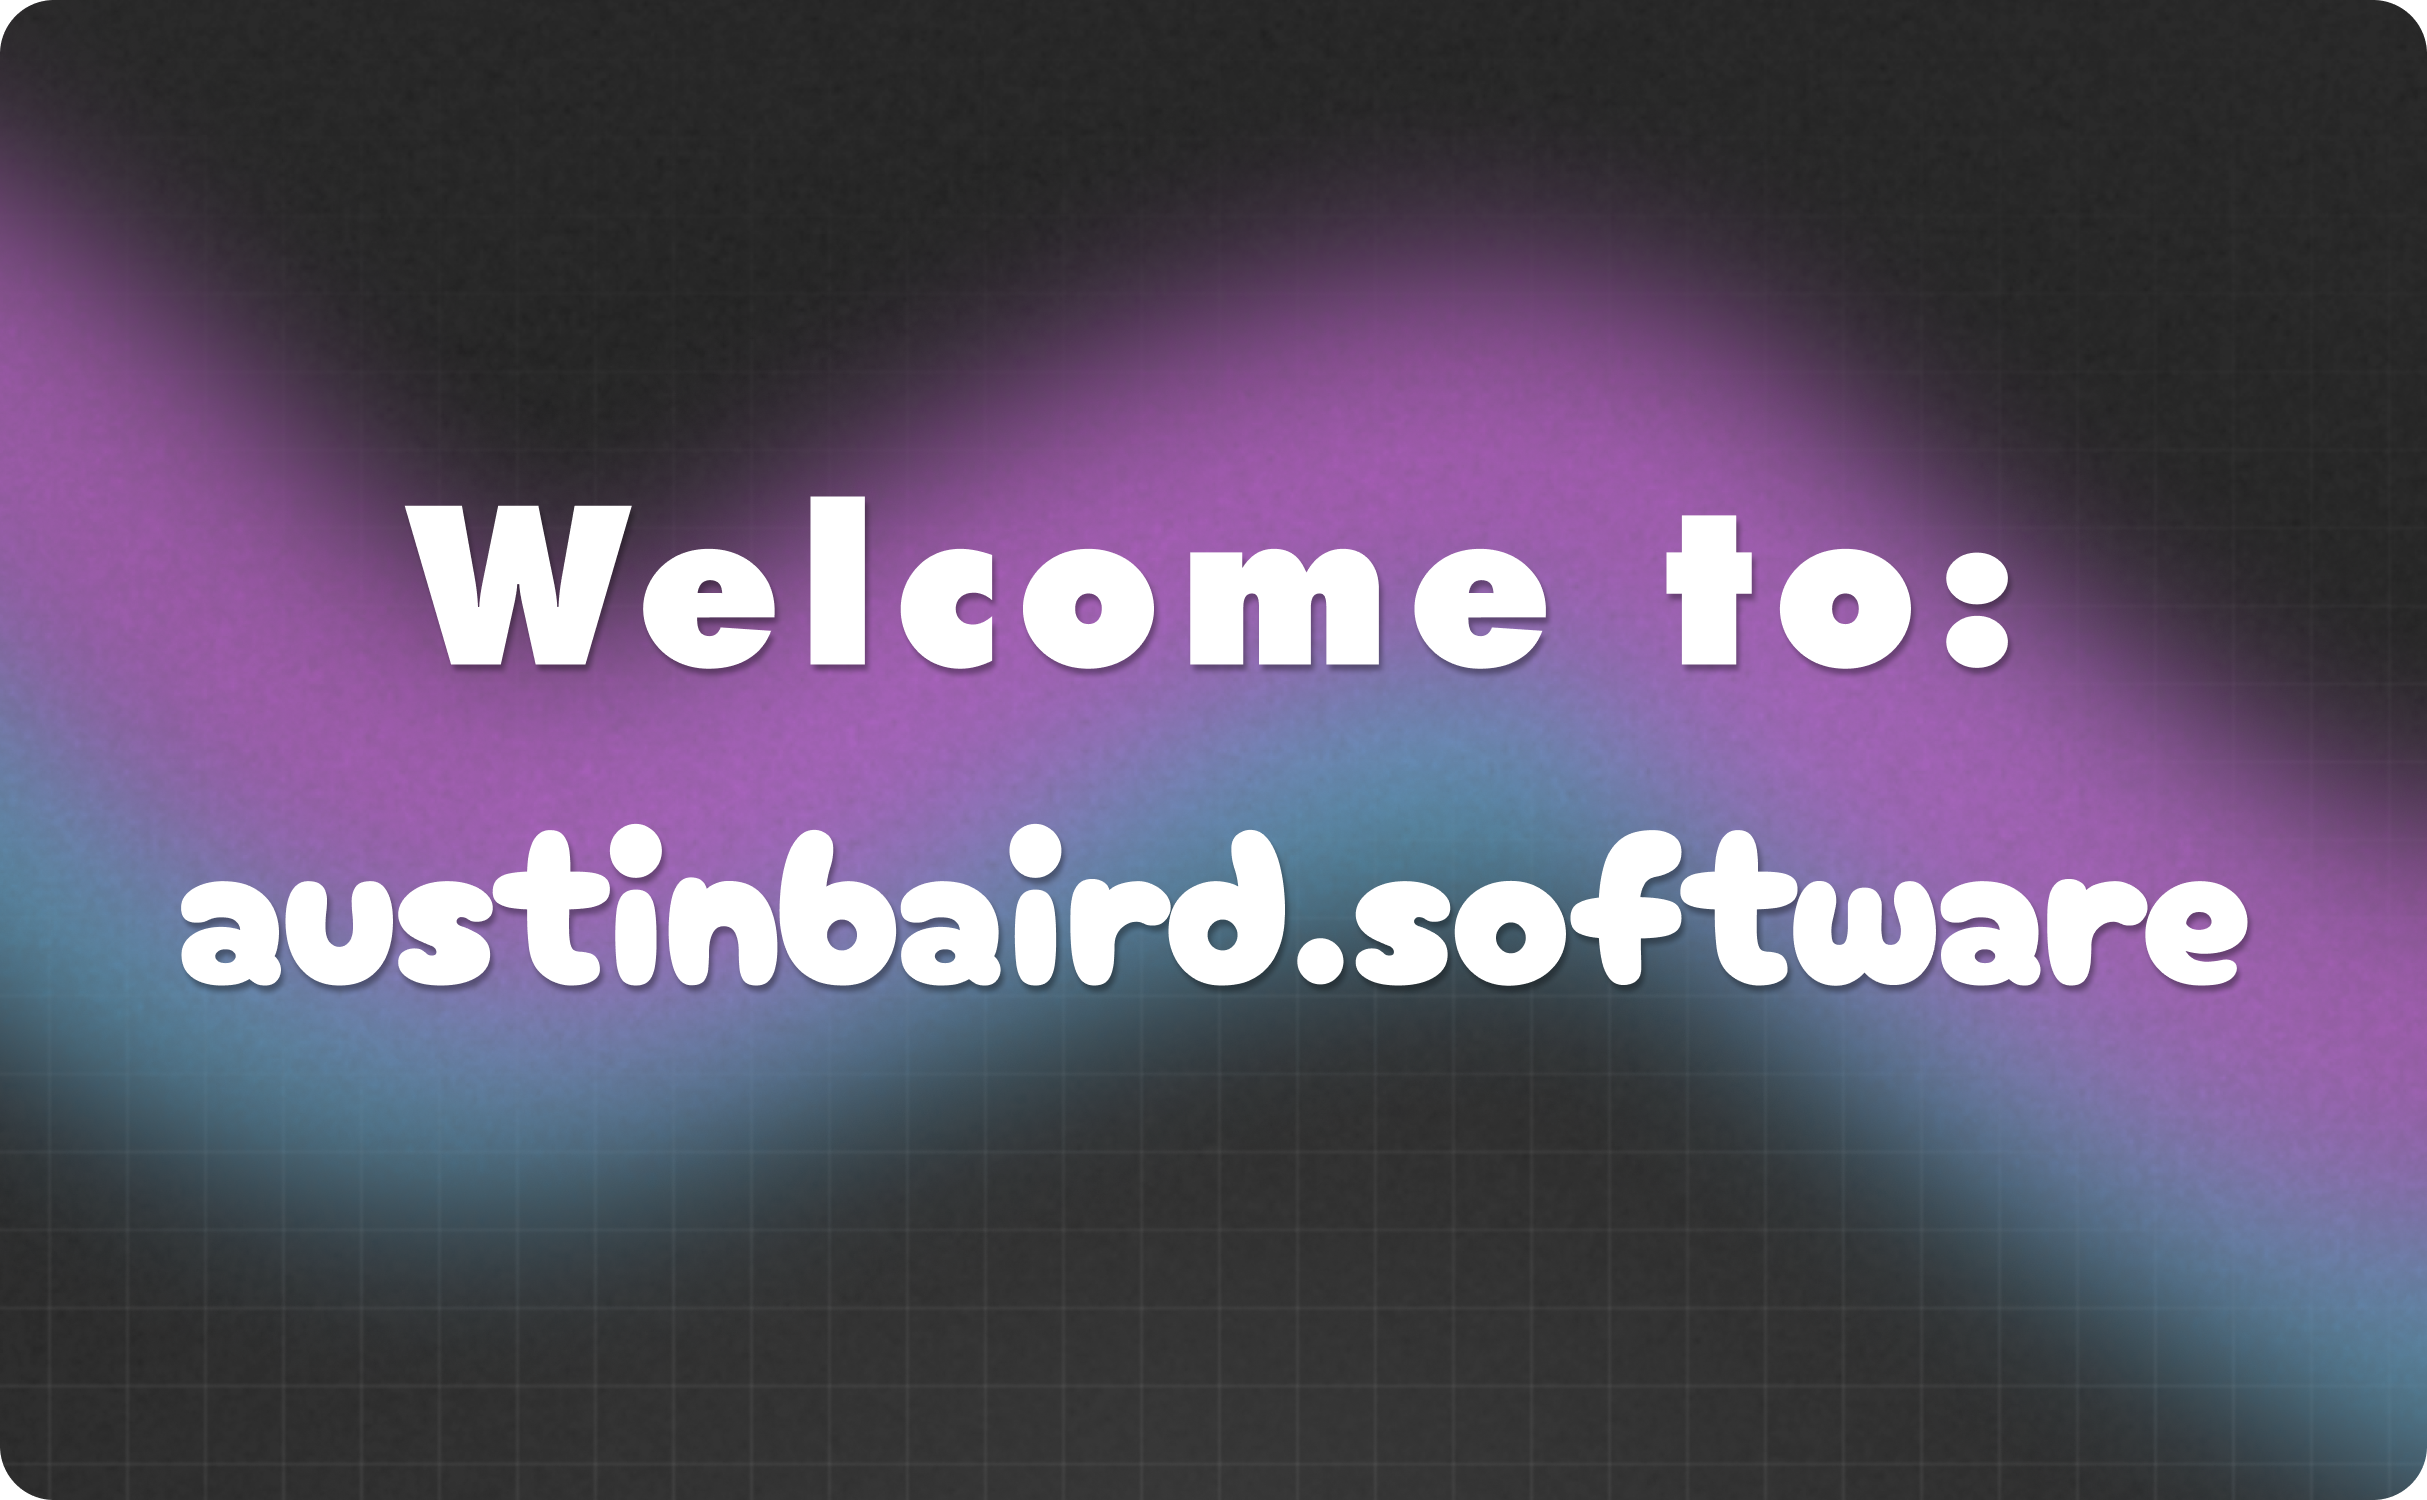
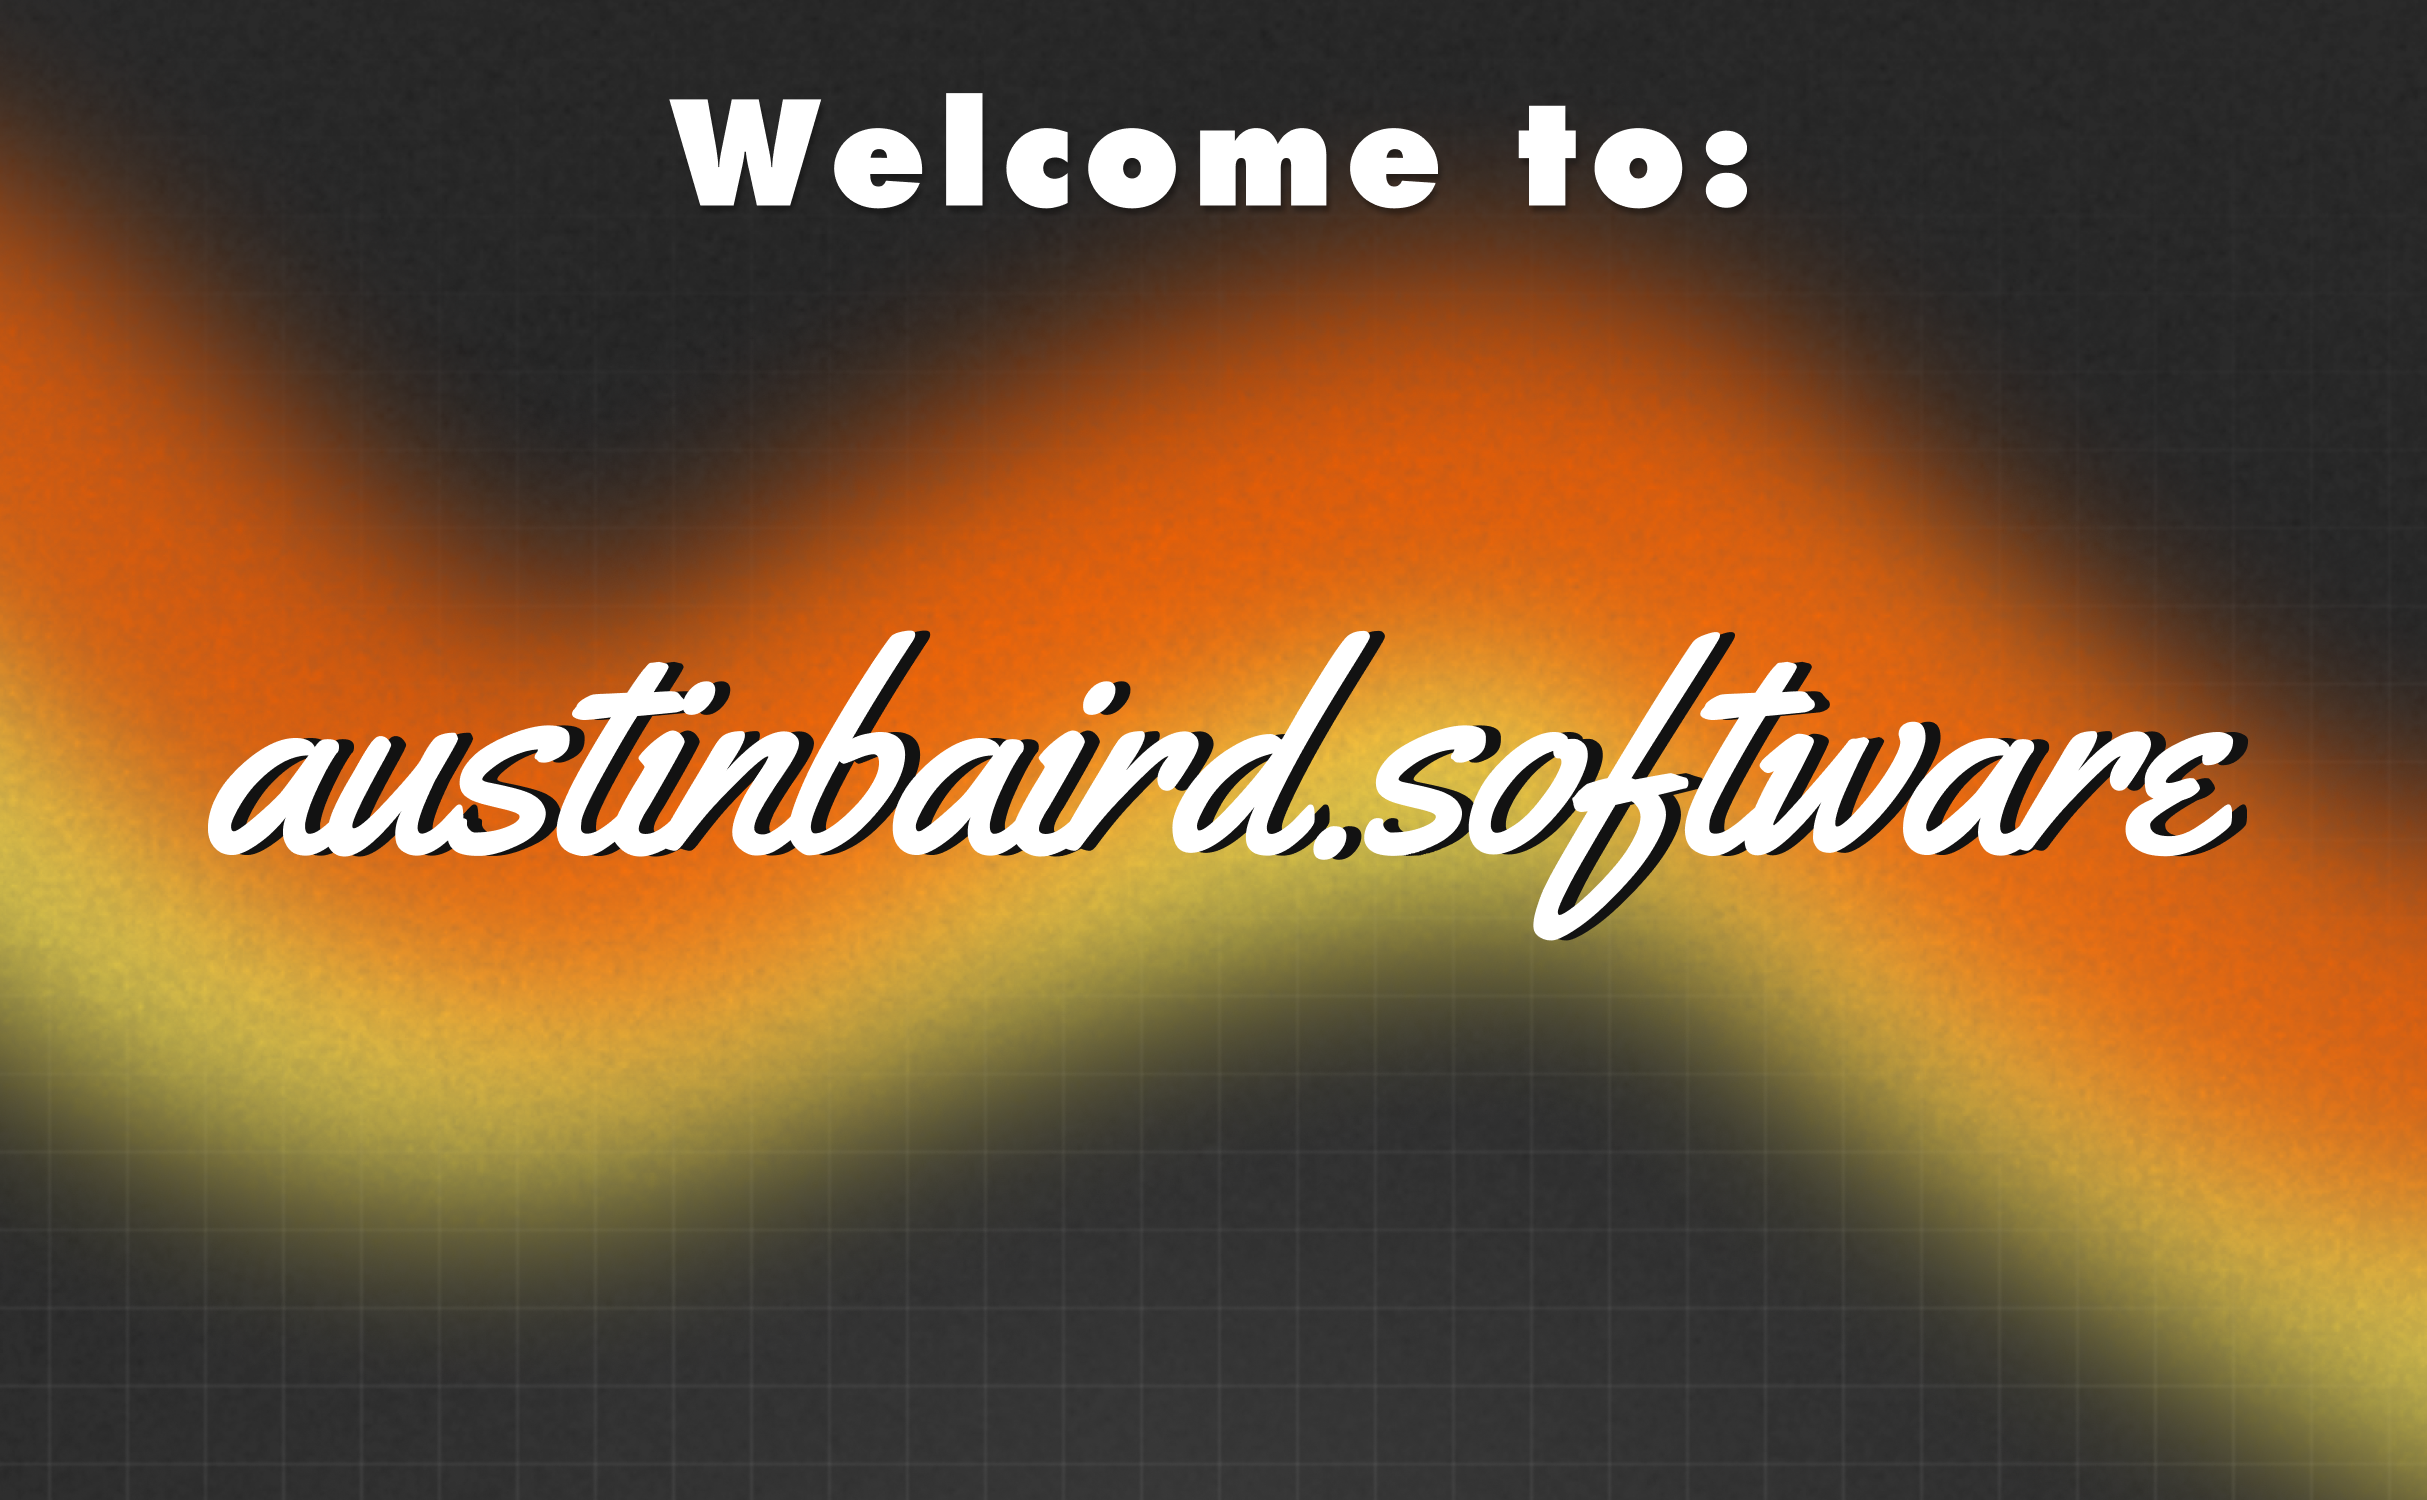
dnd working
making it prettier, added images and such

diff --git a/src/styles/global.css b/src/styles/global.css
@@ -1,6 +1,6 @@
 :root {
 	--accent: #f0db4f;
-	--accent-dark: #1e1e1e;
+	--accent-dark: #ff6200;
 	--black: 15, 18, 25;
 	--gray: 96, 115, 159;
 	--gray-light: 229, 233, 240;
@@ -25,20 +25,13 @@
 }
 @font-face {
 	font-family: 'Futura';
-	src: url('/fonts/Futura-Book-font.ttf') format('ttf');
-	font-weight: 400;
-	font-style: normal;
-	font-display: swap;
-}
-@font-face {
-	font-family: 'Futura';
-	src: url('/fonts/Futura-Bold-font.ttf') format('ttf');
-	font-weight: 700;
+	src: url('/fonts/futur.ttf') format('ttf');
+	font-weight: 500;
 	font-style: normal;
 	font-display: swap;
 }
 body {
-	font-family: 'Futura', 'Atkinson', sans-serif;
+	font-family: Futura, sans-serif;
 	margin: 0;
 	padding: 0;
 	text-align: left;
